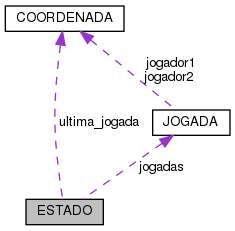
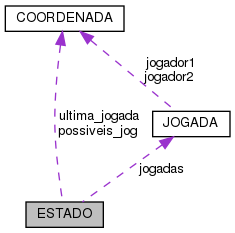
Documentação XML

diff --git a/html/camadaDeDados_8h_source.html b/html/camadaDeDados_8h_source.html
@@ -62,9 +62,9 @@ $(function() {
 <div class="title">camadaDeDados.h</div>  </div>
 </div><!--header-->
 <div class="contents">
-<div class="fragment"><div class="line"><a name="l00001"></a><span class="lineno">    1</span>&#160;</div><div class="line"><a name="l00002"></a><span class="lineno">    2</span>&#160;<span class="preprocessor">#ifndef LI2_CAMADADEDADOS_H</span></div><div class="line"><a name="l00003"></a><span class="lineno">    3</span>&#160;<span class="preprocessor">#define LI2_CAMADADEDADOS_H</span></div><div class="line"><a name="l00004"></a><span class="lineno">    4</span>&#160;</div><div class="line"><a name="l00005"></a><span class="lineno">    5</span>&#160;<span class="comment">//Pq não é possivel alterar &#39;VAZIA&#39; para &#39;.&#39; direto no typedef?</span></div><div class="line"><a name="l00006"></a><span class="lineno">    6</span>&#160;<span class="keyword">typedef</span> <span class="keyword">enum</span> {UM=<span class="charliteral">&#39;1&#39;</span>,DOIS=<span class="charliteral">&#39;2&#39;</span>,VAZIA=<span class="charliteral">&#39;.&#39;</span>,PRETA=<span class="charliteral">&#39;#&#39;</span>,BRANCA=<span class="charliteral">&#39;*&#39;</span>} CASA;</div><div class="line"><a name="l00007"></a><span class="lineno">    7</span>&#160;</div><div class="line"><a name="l00008"></a><span class="lineno">    8</span>&#160;<span class="keyword">typedef</span> <span class="keyword">enum</span> {OK,COORDENADA_INVALIDA,JOGADA_INVALIDA,ERRO_LER_TAB,ERRO_ABRIR_FICHEIRO,} ERROS;</div><div class="line"><a name="l00009"></a><span class="lineno">    9</span>&#160;</div><div class="line"><a name="l00010"></a><span class="lineno">   10</span>&#160;<span class="comment">//COORDENADA há dois inteiros sendo eles para identificar as colunas=letras (A-H) e as linhas de (1-8) de baixo para cima.</span></div><div class="line"><a name="l00011"></a><span class="lineno"><a class="line" href="structCOORDENADA.html">   11</a></span>&#160;<span class="keyword">typedef</span> <span class="keyword">struct </span>{</div><div class="line"><a name="l00012"></a><span class="lineno">   12</span>&#160;    <span class="keywordtype">int</span> letra;</div><div class="line"><a name="l00013"></a><span class="lineno">   13</span>&#160;    <span class="keywordtype">int</span> linha;</div><div class="line"><a name="l00014"></a><span class="lineno">   14</span>&#160;} <a class="code" href="structCOORDENADA.html">COORDENADA</a>;</div><div class="line"><a name="l00015"></a><span class="lineno">   15</span>&#160;</div><div class="line"><a name="l00016"></a><span class="lineno">   16</span>&#160;<span class="comment">//Typedef no qual busca quais as coordenas que o jogador 1 ou jogador 2</span></div><div class="line"><a name="l00017"></a><span class="lineno"><a class="line" href="structJOGADA.html">   17</a></span>&#160;<span class="keyword">typedef</span> <span class="keyword">struct </span>{</div><div class="line"><a name="l00018"></a><span class="lineno">   18</span>&#160;    <a class="code" href="structCOORDENADA.html">COORDENADA</a> jogador1;</div><div class="line"><a name="l00019"></a><span class="lineno">   19</span>&#160;    <a class="code" href="structCOORDENADA.html">COORDENADA</a> jogador2;</div><div class="line"><a name="l00020"></a><span class="lineno">   20</span>&#160;} <a class="code" href="structJOGADA.html">JOGADA</a>;</div><div class="line"><a name="l00021"></a><span class="lineno">   21</span>&#160;</div><div class="line"><a name="l00022"></a><span class="lineno">   22</span>&#160;<span class="keyword">typedef</span> <a class="code" href="structJOGADA.html">JOGADA</a> JOGADAS[32];</div><div class="line"><a name="l00023"></a><span class="lineno">   23</span>&#160;<span class="comment">//Informações do estado tab(tabuleiro), numero de jogadas (começa no 0), jogador atual (começa no jogador 1)</span></div><div class="line"><a name="l00024"></a><span class="lineno"><a class="line" href="structESTADO.html">   24</a></span>&#160;<span class="keyword">typedef</span> <span class="keyword">struct </span>{</div><div class="line"><a name="l00025"></a><span class="lineno">   25</span>&#160;    CASA tab[8][8];</div><div class="line"><a name="l00026"></a><span class="lineno">   26</span>&#160;    JOGADAS jogadas;</div><div class="line"><a name="l00027"></a><span class="lineno">   27</span>&#160;    <span class="keywordtype">int</span> num_jogadas;</div><div class="line"><a name="l00028"></a><span class="lineno">   28</span>&#160;    <span class="keywordtype">int</span> jogador_atual;</div><div class="line"><a name="l00029"></a><span class="lineno">   29</span>&#160;    <a class="code" href="structCOORDENADA.html">COORDENADA</a> ultima_jogada;</div><div class="line"><a name="l00030"></a><span class="lineno">   30</span>&#160;} <a class="code" href="structESTADO.html">ESTADO</a>;</div><div class="line"><a name="l00031"></a><span class="lineno">   31</span>&#160;<span class="comment">//Funções</span></div><div class="line"><a name="l00032"></a><span class="lineno">   32</span>&#160;<span class="keywordtype">int</span> numeroJogadas (<a class="code" href="structESTADO.html">ESTADO</a> *e);</div><div class="line"><a name="l00033"></a><span class="lineno">   33</span>&#160;<span class="keywordtype">int</span> JogAtual (<a class="code" href="structESTADO.html">ESTADO</a> *e);</div><div class="line"><a name="l00034"></a><span class="lineno">   34</span>&#160;CASA estadoDaPeca (<a class="code" href="structESTADO.html">ESTADO</a> *e ,<a class="code" href="structCOORDENADA.html">COORDENADA</a> *x);</div><div class="line"><a name="l00035"></a><span class="lineno">   35</span>&#160;<a class="code" href="structESTADO.html">ESTADO</a> *inicializar_estado();</div><div class="line"><a name="l00036"></a><span class="lineno">   36</span>&#160;</div><div class="line"><a name="l00037"></a><span class="lineno">   37</span>&#160;<span class="preprocessor">#endif //LI2_CAMADADEDADOS_H</span></div><div class="ttc" id="structESTADO_html"><div class="ttname"><a href="structESTADO.html">ESTADO</a></div><div class="ttdef"><b>Definition:</b> camadaDeDados.h:24</div></div>
-<div class="ttc" id="structJOGADA_html"><div class="ttname"><a href="structJOGADA.html">JOGADA</a></div><div class="ttdef"><b>Definition:</b> camadaDeDados.h:17</div></div>
-<div class="ttc" id="structCOORDENADA_html"><div class="ttname"><a href="structCOORDENADA.html">COORDENADA</a></div><div class="ttdef"><b>Definition:</b> camadaDeDados.h:11</div></div>
+<div class="fragment"><div class="line"><a name="l00001"></a><span class="lineno">    1</span>&#160;<span class="preprocessor">#ifndef LI2_CAMADADEDADOS_H</span></div><div class="line"><a name="l00002"></a><span class="lineno">    2</span>&#160;<span class="preprocessor">#define LI2_CAMADADEDADOS_H</span></div><div class="line"><a name="l00003"></a><span class="lineno">    3</span>&#160;<span class="preprocessor">#include &quot;lista.h&quot;</span></div><div class="line"><a name="l00008"></a><span class="lineno">    8</span>&#160;<span class="keyword">typedef</span> <span class="keyword">enum</span> {UM=<span class="charliteral">&#39;1&#39;</span>,DOIS=<span class="charliteral">&#39;2&#39;</span>,VAZIA=<span class="charliteral">&#39;.&#39;</span>,PRETA=<span class="charliteral">&#39;#&#39;</span>,BRANCA=<span class="charliteral">&#39;*&#39;</span>} CASA;</div><div class="line"><a name="l00014"></a><span class="lineno"><a class="line" href="structCOORDENADA.html">   14</a></span>&#160;<span class="keyword">typedef</span> <span class="keyword">struct </span>{</div><div class="line"><a name="l00015"></a><span class="lineno">   15</span>&#160;    <span class="keywordtype">int</span> letra;</div><div class="line"><a name="l00016"></a><span class="lineno">   16</span>&#160;    <span class="keywordtype">int</span> linha;</div><div class="line"><a name="l00017"></a><span class="lineno">   17</span>&#160;    <span class="keywordtype">char</span> letrinha;</div><div class="line"><a name="l00018"></a><span class="lineno">   18</span>&#160;} <a class="code" href="structCOORDENADA.html">COORDENADA</a>;</div><div class="line"><a name="l00019"></a><span class="lineno">   19</span>&#160;</div><div class="line"><a name="l00024"></a><span class="lineno"><a class="line" href="structJOGADA.html">   24</a></span>&#160;<span class="keyword">typedef</span> <span class="keyword">struct </span>{</div><div class="line"><a name="l00025"></a><span class="lineno">   25</span>&#160;    <a class="code" href="structCOORDENADA.html">COORDENADA</a> jogador1;</div><div class="line"><a name="l00026"></a><span class="lineno">   26</span>&#160;    <a class="code" href="structCOORDENADA.html">COORDENADA</a> jogador2;</div><div class="line"><a name="l00027"></a><span class="lineno">   27</span>&#160;} <a class="code" href="structJOGADA.html">JOGADA</a>;</div><div class="line"><a name="l00028"></a><span class="lineno">   28</span>&#160;</div><div class="line"><a name="l00033"></a><span class="lineno">   33</span>&#160;<span class="keyword">typedef</span> <a class="code" href="structJOGADA.html">JOGADA</a> JOGADAS[32];</div><div class="line"><a name="l00038"></a><span class="lineno"><a class="line" href="structESTADO.html">   38</a></span>&#160;<span class="keyword">typedef</span> <span class="keyword">struct </span>{</div><div class="line"><a name="l00039"></a><span class="lineno">   39</span>&#160;    CASA tab[8][8];</div><div class="line"><a name="l00040"></a><span class="lineno">   40</span>&#160;    JOGADAS jogadas;</div><div class="line"><a name="l00041"></a><span class="lineno">   41</span>&#160;    <span class="keywordtype">int</span> num_jogadas;</div><div class="line"><a name="l00042"></a><span class="lineno">   42</span>&#160;    <span class="keywordtype">int</span> jogador_atual;</div><div class="line"><a name="l00043"></a><span class="lineno">   43</span>&#160;    <span class="keywordtype">int</span> count_jog;</div><div class="line"><a name="l00044"></a><span class="lineno">   44</span>&#160;    <span class="keywordtype">int</span> count_mov;</div><div class="line"><a name="l00045"></a><span class="lineno">   45</span>&#160;    <span class="keywordtype">int</span> count_movs;</div><div class="line"><a name="l00046"></a><span class="lineno">   46</span>&#160;    <span class="keywordtype">int</span> num;</div><div class="line"><a name="l00047"></a><span class="lineno">   47</span>&#160;    <span class="keywordtype">int</span> qntjogs;</div><div class="line"><a name="l00048"></a><span class="lineno">   48</span>&#160;    <a class="code" href="structCOORDENADA.html">COORDENADA</a> possiveis_jog[8];</div><div class="line"><a name="l00049"></a><span class="lineno">   49</span>&#160;    <a class="code" href="structCOORDENADA.html">COORDENADA</a> ultima_jogada;</div><div class="line"><a name="l00050"></a><span class="lineno">   50</span>&#160;    <span class="comment">//COORDENADA possivel_jogada;</span></div><div class="line"><a name="l00051"></a><span class="lineno">   51</span>&#160;} <a class="code" href="structESTADO.html">ESTADO</a>;</div><div class="line"><a name="l00052"></a><span class="lineno">   52</span>&#160;</div><div class="line"><a name="l00053"></a><span class="lineno">   53</span>&#160;<span class="comment">/*Funções feita no .c*/</span></div><div class="line"><a name="l00054"></a><span class="lineno">   54</span>&#160;<a class="code" href="structESTADO.html">ESTADO</a> *inicializar_estado();</div><div class="line"><a name="l00055"></a><span class="lineno">   55</span>&#160;<span class="keywordtype">void</span> tabuleiro_inicial(<a class="code" href="structESTADO.html">ESTADO</a> *e);</div><div class="line"><a name="l00056"></a><span class="lineno">   56</span>&#160;<span class="preprocessor">#endif //LI2_CAMADADEDADOS_H</span></div><div class="ttc" id="structESTADO_html"><div class="ttname"><a href="structESTADO.html">ESTADO</a></div><div class="ttdoc">Informações do estado tab(tabuleiro), numero de jogadas (começa no 0), jogador atual (começa no jogad...</div><div class="ttdef"><b>Definition:</b> camadaDeDados.h:38</div></div>
+<div class="ttc" id="structJOGADA_html"><div class="ttname"><a href="structJOGADA.html">JOGADA</a></div><div class="ttdoc">Typedef no qual busca quais as coordenas que o jogador 1 ou jogador 2. </div><div class="ttdef"><b>Definition:</b> camadaDeDados.h:24</div></div>
+<div class="ttc" id="structCOORDENADA_html"><div class="ttname"><a href="structCOORDENADA.html">COORDENADA</a></div><div class="ttdoc">COORDENADA há dois inteiros sendo eles para identificar as colunas=letras (A-H),linhas de (1-8) e o l...</div><div class="ttdef"><b>Definition:</b> camadaDeDados.h:14</div></div>
 </div><!-- fragment --></div><!-- contents -->
 <!-- start footer part -->
 <hr class="footer"/><address class="footer"><small>

diff --git a/html/logica_8h_source.html b/html/logica_8h_source.html
@@ -62,8 +62,9 @@ $(function() {
 <div class="title">logica.h</div>  </div>
 </div><!--header-->
 <div class="contents">
-<div class="fragment"><div class="line"><a name="l00001"></a><span class="lineno">    1</span>&#160;<span class="preprocessor">#ifndef LI2_LOGICA_H</span></div><div class="line"><a name="l00002"></a><span class="lineno">    2</span>&#160;<span class="preprocessor">#define LI2_LOGICA_H</span></div><div class="line"><a name="l00003"></a><span class="lineno">    3</span>&#160;<span class="keywordtype">int</span> jogar(<a class="code" href="structESTADO.html">ESTADO</a> *e, <a class="code" href="structCOORDENADA.html">COORDENADA</a> c);</div><div class="line"><a name="l00004"></a><span class="lineno">    4</span>&#160;<span class="keywordtype">int</span> casa_viz(<a class="code" href="structCOORDENADA.html">COORDENADA</a> cAntes, <a class="code" href="structCOORDENADA.html">COORDENADA</a> cJog);</div><div class="line"><a name="l00005"></a><span class="lineno">    5</span>&#160;<span class="keywordtype">int</span> casa_livre (<a class="code" href="structESTADO.html">ESTADO</a> *e, <a class="code" href="structCOORDENADA.html">COORDENADA</a> c);</div><div class="line"><a name="l00006"></a><span class="lineno">    6</span>&#160;<span class="keywordtype">int</span> possiveis_jogadas(<a class="code" href="structESTADO.html">ESTADO</a> *e);</div><div class="line"><a name="l00007"></a><span class="lineno">    7</span>&#160;</div><div class="line"><a name="l00008"></a><span class="lineno">    8</span>&#160;</div><div class="line"><a name="l00009"></a><span class="lineno">    9</span>&#160;<span class="preprocessor">#endif //LI2_LOGICA_H</span></div><div class="ttc" id="structESTADO_html"><div class="ttname"><a href="structESTADO.html">ESTADO</a></div><div class="ttdef"><b>Definition:</b> camadaDeDados.h:24</div></div>
-<div class="ttc" id="structCOORDENADA_html"><div class="ttname"><a href="structCOORDENADA.html">COORDENADA</a></div><div class="ttdef"><b>Definition:</b> camadaDeDados.h:11</div></div>
+<div class="fragment"><div class="line"><a name="l00001"></a><span class="lineno">    1</span>&#160;<span class="preprocessor">#ifndef LI2_LOGICA_H</span></div><div class="line"><a name="l00002"></a><span class="lineno">    2</span>&#160;<span class="preprocessor">#define LI2_LOGICA_H</span></div><div class="line"><a name="l00003"></a><span class="lineno">    3</span>&#160;<span class="preprocessor">#include &quot;lista.h&quot;</span></div><div class="line"><a name="l00004"></a><span class="lineno">    4</span>&#160;<span class="keywordtype">void</span> movs(<a class="code" href="structESTADO.html">ESTADO</a> *e, <a class="code" href="structCOORDENADA.html">COORDENADA</a> c);</div><div class="line"><a name="l00005"></a><span class="lineno">    5</span>&#160;<span class="keywordtype">void</span> show_tab(FILE *f, <a class="code" href="structESTADO.html">ESTADO</a> *e);</div><div class="line"><a name="l00006"></a><span class="lineno">    6</span>&#160;<span class="keywordtype">void</span> prompt(<a class="code" href="structESTADO.html">ESTADO</a> *e);</div><div class="line"><a name="l00007"></a><span class="lineno">    7</span>&#160;<span class="keywordtype">void</span> jogar(<a class="code" href="structESTADO.html">ESTADO</a> *e, <a class="code" href="structCOORDENADA.html">COORDENADA</a> c);</div><div class="line"><a name="l00008"></a><span class="lineno">    8</span>&#160;<span class="keywordtype">void</span> parabens(<span class="keywordtype">int</span> jogador);</div><div class="line"><a name="l00009"></a><span class="lineno">    9</span>&#160;<span class="keywordtype">void</span> aux_mov(<a class="code" href="structESTADO.html">ESTADO</a> *e);</div><div class="line"><a name="l00010"></a><span class="lineno">   10</span>&#160;<span class="keywordtype">void</span> aux_movf(<a class="code" href="structESTADO.html">ESTADO</a> *e,FILE *f);</div><div class="line"><a name="l00011"></a><span class="lineno">   11</span>&#160;<span class="keywordtype">void</span> posf(<a class="code" href="structESTADO.html">ESTADO</a> *e, <span class="keywordtype">int</span> x);</div><div class="line"><a name="l00012"></a><span class="lineno">   12</span>&#160;<span class="keywordtype">void</span> troca_jog(<a class="code" href="structESTADO.html">ESTADO</a> *e);</div><div class="line"><a name="l00013"></a><span class="lineno">   13</span>&#160;<span class="keywordtype">void</span> iniciar_estado(<a class="code" href="structESTADO.html">ESTADO</a> *e);</div><div class="line"><a name="l00014"></a><span class="lineno">   14</span>&#160;<span class="keywordtype">void</span> mudar_estado(<a class="code" href="structESTADO.html">ESTADO</a> *e);</div><div class="line"><a name="l00015"></a><span class="lineno">   15</span>&#160;<span class="keywordtype">void</span> insere_lista(<a class="code" href="structlista.html">LISTA</a> *a,<a class="code" href="structESTADO.html">ESTADO</a> *e);</div><div class="line"><a name="l00016"></a><span class="lineno">   16</span>&#160;<span class="keywordtype">void</span> jog01(<a class="code" href="structESTADO.html">ESTADO</a> *e, <a class="code" href="structlista.html">LISTA</a> l);</div><div class="line"><a name="l00017"></a><span class="lineno">   17</span>&#160;<span class="keywordtype">void</span> jog02(<a class="code" href="structESTADO.html">ESTADO</a> *e, <a class="code" href="structlista.html">LISTA</a> *l);</div><div class="line"><a name="l00018"></a><span class="lineno">   18</span>&#160;<span class="keywordtype">int</span> casa_viz(<a class="code" href="structCOORDENADA.html">COORDENADA</a> cAntes, <a class="code" href="structCOORDENADA.html">COORDENADA</a> cJog);</div><div class="line"><a name="l00019"></a><span class="lineno">   19</span>&#160;<span class="keywordtype">int</span> casa_livre (<a class="code" href="structESTADO.html">ESTADO</a> *e, <a class="code" href="structCOORDENADA.html">COORDENADA</a> c);</div><div class="line"><a name="l00020"></a><span class="lineno">   20</span>&#160;<span class="keywordtype">int</span> possiveis_jogadas(<a class="code" href="structESTADO.html">ESTADO</a> *e,<a class="code" href="structlista.html">LISTA</a> *d);</div><div class="line"><a name="l00021"></a><span class="lineno">   21</span>&#160;<span class="keywordtype">int</span> calcula_dist(<a class="code" href="structCOORDENADA.html">COORDENADA</a> c, <a class="code" href="structESTADO.html">ESTADO</a>* e);</div><div class="line"><a name="l00022"></a><span class="lineno">   22</span>&#160;<span class="keywordtype">int</span> verifica_jog(<a class="code" href="structESTADO.html">ESTADO</a> e, <a class="code" href="structCOORDENADA.html">COORDENADA</a> c);</div><div class="line"><a name="l00023"></a><span class="lineno">   23</span>&#160;<a class="code" href="structCOORDENADA.html">COORDENADA</a> area_par(<a class="code" href="structESTADO.html">ESTADO</a> *e, <a class="code" href="structlista.html">LISTA</a> *l);</div><div class="line"><a name="l00024"></a><span class="lineno">   24</span>&#160;<a class="code" href="structCOORDENADA.html">COORDENADA</a> melhor_coord01(<a class="code" href="structESTADO.html">ESTADO</a> *e, <a class="code" href="structlista.html">LISTA</a> l);</div><div class="line"><a name="l00025"></a><span class="lineno">   25</span>&#160;<a class="code" href="structCOORDENADA.html">COORDENADA</a> melhor_coord02(<a class="code" href="structESTADO.html">ESTADO</a> e, <a class="code" href="structlista.html">LISTA</a> l);</div><div class="line"><a name="l00026"></a><span class="lineno">   26</span>&#160;<span class="preprocessor">#endif //LI2_LOGICA_H</span></div><div class="ttc" id="structESTADO_html"><div class="ttname"><a href="structESTADO.html">ESTADO</a></div><div class="ttdoc">Informações do estado tab(tabuleiro), numero de jogadas (começa no 0), jogador atual (começa no jogad...</div><div class="ttdef"><b>Definition:</b> camadaDeDados.h:38</div></div>
+<div class="ttc" id="structlista_html"><div class="ttname"><a href="structlista.html">lista</a></div><div class="ttdoc">Struct de lista ligada generalizada, ou seja, com void. </div><div class="ttdef"><b>Definition:</b> lista.h:7</div></div>
+<div class="ttc" id="structCOORDENADA_html"><div class="ttname"><a href="structCOORDENADA.html">COORDENADA</a></div><div class="ttdoc">COORDENADA há dois inteiros sendo eles para identificar as colunas=letras (A-H),linhas de (1-8) e o l...</div><div class="ttdef"><b>Definition:</b> camadaDeDados.h:14</div></div>
 </div><!-- fragment --></div><!-- contents -->
 <!-- start footer part -->
 <hr class="footer"/><address class="footer"><small>

diff --git a/html/structESTADO.html b/html/structESTADO.html
@@ -65,13 +65,18 @@ $(function() {
 <div class="title">ESTADO Struct Reference</div>  </div>
 </div><!--header-->
 <div class="contents">
+
+<p>Informações do estado tab(tabuleiro), numero de jogadas (começa no 0), jogador atual (começa no jogador 1)  
+ <a href="structESTADO.html#details">More...</a></p>
+
+<p><code>#include &lt;<a class="el" href="camadaDeDados_8h_source.html">camadaDeDados.h</a>&gt;</code></p>
 <div class="dynheader">
 Collaboration diagram for ESTADO:</div>
 <div class="dyncontent">
 <div class="center"><img src="structESTADO__coll__graph.png" border="0" usemap="#ESTADO_coll__map" alt="Collaboration graph"/></div>
 <map name="ESTADO_coll__map" id="ESTADO_coll__map">
-<area shape="rect" id="node2" href="structCOORDENADA.html" title="COORDENADA" alt="" coords="5,5,124,32"/>
-<area shape="rect" id="node3" href="structJOGADA.html" title="JOGADA" alt="" coords="153,109,230,136"/>
+<area shape="rect" id="node2" href="structCOORDENADA.html" title="COORDENADA há dois inteiros sendo eles para identificar as colunas=letras (A&#45;H),linhas de (1&#45;8) e o l..." alt="" coords="5,5,124,32"/>
+<area shape="rect" id="node3" href="structJOGADA.html" title="Typedef no qual busca quais as coordenas que o jogador 1 ou jogador 2. " alt="" coords="153,111,230,137"/>
 </map>
 <center><span class="legend">[<a href="graph_legend.html">legend</a>]</span></center></div>
 <table class="memberdecls">
@@ -89,11 +94,31 @@ int&#160;</td><td class="memItemRight" valign="bottom"><b>num_jogadas</b></td></
 <tr class="memitem:a5dd28e2e68b7aef2b6b7ea88e02eff58"><td class="memItemLeft" align="right" valign="top"><a id="a5dd28e2e68b7aef2b6b7ea88e02eff58"></a>
 int&#160;</td><td class="memItemRight" valign="bottom"><b>jogador_atual</b></td></tr>
 <tr class="separator:a5dd28e2e68b7aef2b6b7ea88e02eff58"><td class="memSeparator" colspan="2">&#160;</td></tr>
+<tr class="memitem:a5632721fdfcc6c98f084c91aef5b6e25"><td class="memItemLeft" align="right" valign="top"><a id="a5632721fdfcc6c98f084c91aef5b6e25"></a>
+int&#160;</td><td class="memItemRight" valign="bottom"><b>count_jog</b></td></tr>
+<tr class="separator:a5632721fdfcc6c98f084c91aef5b6e25"><td class="memSeparator" colspan="2">&#160;</td></tr>
+<tr class="memitem:a36e8d21ac156e82ce914ccdafc6796ea"><td class="memItemLeft" align="right" valign="top"><a id="a36e8d21ac156e82ce914ccdafc6796ea"></a>
+int&#160;</td><td class="memItemRight" valign="bottom"><b>count_mov</b></td></tr>
+<tr class="separator:a36e8d21ac156e82ce914ccdafc6796ea"><td class="memSeparator" colspan="2">&#160;</td></tr>
+<tr class="memitem:a49b04d6940f820509146c9162ac10542"><td class="memItemLeft" align="right" valign="top"><a id="a49b04d6940f820509146c9162ac10542"></a>
+int&#160;</td><td class="memItemRight" valign="bottom"><b>count_movs</b></td></tr>
+<tr class="separator:a49b04d6940f820509146c9162ac10542"><td class="memSeparator" colspan="2">&#160;</td></tr>
+<tr class="memitem:a248a8554633b7e8e40142e5b8c4e6960"><td class="memItemLeft" align="right" valign="top"><a id="a248a8554633b7e8e40142e5b8c4e6960"></a>
+int&#160;</td><td class="memItemRight" valign="bottom"><b>num</b></td></tr>
+<tr class="separator:a248a8554633b7e8e40142e5b8c4e6960"><td class="memSeparator" colspan="2">&#160;</td></tr>
+<tr class="memitem:ae0aaae1dc17799598305cd40a3ca2ba8"><td class="memItemLeft" align="right" valign="top"><a id="ae0aaae1dc17799598305cd40a3ca2ba8"></a>
+int&#160;</td><td class="memItemRight" valign="bottom"><b>qntjogs</b></td></tr>
+<tr class="separator:ae0aaae1dc17799598305cd40a3ca2ba8"><td class="memSeparator" colspan="2">&#160;</td></tr>
+<tr class="memitem:ab9b11998a54bde459f72cbbc32e79b0b"><td class="memItemLeft" align="right" valign="top"><a id="ab9b11998a54bde459f72cbbc32e79b0b"></a>
+<a class="el" href="structCOORDENADA.html">COORDENADA</a>&#160;</td><td class="memItemRight" valign="bottom"><b>possiveis_jog</b> [8]</td></tr>
+<tr class="separator:ab9b11998a54bde459f72cbbc32e79b0b"><td class="memSeparator" colspan="2">&#160;</td></tr>
 <tr class="memitem:a4896a5c5c1f40b43fb795623327e3f47"><td class="memItemLeft" align="right" valign="top"><a id="a4896a5c5c1f40b43fb795623327e3f47"></a>
 <a class="el" href="structCOORDENADA.html">COORDENADA</a>&#160;</td><td class="memItemRight" valign="bottom"><b>ultima_jogada</b></td></tr>
 <tr class="separator:a4896a5c5c1f40b43fb795623327e3f47"><td class="memSeparator" colspan="2">&#160;</td></tr>
 </table>
-<hr/>The documentation for this struct was generated from the following file:<ul>
+<a name="details" id="details"></a><h2 class="groupheader">Detailed Description</h2>
+<div class="textblock"><p>Informações do estado tab(tabuleiro), numero de jogadas (começa no 0), jogador atual (começa no jogador 1) </p>
+</div><hr/>The documentation for this struct was generated from the following file:<ul>
 <li><a class="el" href="camadaDeDados_8h_source.html">camadaDeDados.h</a></li>
 </ul>
 </div><!-- contents -->

diff --git a/html/structESTADO-members.html b/html/structESTADO-members.html
@@ -65,9 +65,15 @@ $(function() {
 
 <p>This is the complete list of members for <a class="el" href="structESTADO.html">ESTADO</a>, including all inherited members.</p>
 <table class="directory">
-  <tr bgcolor="#f0f0f0" class="even"><td class="entry"><b>jogadas</b> (defined in <a class="el" href="structESTADO.html">ESTADO</a>)</td><td class="entry"><a class="el" href="structESTADO.html">ESTADO</a></td><td class="entry"></td></tr>
-  <tr bgcolor="#f0f0f0"><td class="entry"><b>jogador_atual</b> (defined in <a class="el" href="structESTADO.html">ESTADO</a>)</td><td class="entry"><a class="el" href="structESTADO.html">ESTADO</a></td><td class="entry"></td></tr>
+  <tr bgcolor="#f0f0f0" class="even"><td class="entry"><b>count_jog</b> (defined in <a class="el" href="structESTADO.html">ESTADO</a>)</td><td class="entry"><a class="el" href="structESTADO.html">ESTADO</a></td><td class="entry"></td></tr>
+  <tr bgcolor="#f0f0f0"><td class="entry"><b>count_mov</b> (defined in <a class="el" href="structESTADO.html">ESTADO</a>)</td><td class="entry"><a class="el" href="structESTADO.html">ESTADO</a></td><td class="entry"></td></tr>
+  <tr bgcolor="#f0f0f0" class="even"><td class="entry"><b>count_movs</b> (defined in <a class="el" href="structESTADO.html">ESTADO</a>)</td><td class="entry"><a class="el" href="structESTADO.html">ESTADO</a></td><td class="entry"></td></tr>
+  <tr bgcolor="#f0f0f0"><td class="entry"><b>jogadas</b> (defined in <a class="el" href="structESTADO.html">ESTADO</a>)</td><td class="entry"><a class="el" href="structESTADO.html">ESTADO</a></td><td class="entry"></td></tr>
+  <tr bgcolor="#f0f0f0" class="even"><td class="entry"><b>jogador_atual</b> (defined in <a class="el" href="structESTADO.html">ESTADO</a>)</td><td class="entry"><a class="el" href="structESTADO.html">ESTADO</a></td><td class="entry"></td></tr>
+  <tr bgcolor="#f0f0f0"><td class="entry"><b>num</b> (defined in <a class="el" href="structESTADO.html">ESTADO</a>)</td><td class="entry"><a class="el" href="structESTADO.html">ESTADO</a></td><td class="entry"></td></tr>
   <tr bgcolor="#f0f0f0" class="even"><td class="entry"><b>num_jogadas</b> (defined in <a class="el" href="structESTADO.html">ESTADO</a>)</td><td class="entry"><a class="el" href="structESTADO.html">ESTADO</a></td><td class="entry"></td></tr>
+  <tr bgcolor="#f0f0f0"><td class="entry"><b>possiveis_jog</b> (defined in <a class="el" href="structESTADO.html">ESTADO</a>)</td><td class="entry"><a class="el" href="structESTADO.html">ESTADO</a></td><td class="entry"></td></tr>
+  <tr bgcolor="#f0f0f0" class="even"><td class="entry"><b>qntjogs</b> (defined in <a class="el" href="structESTADO.html">ESTADO</a>)</td><td class="entry"><a class="el" href="structESTADO.html">ESTADO</a></td><td class="entry"></td></tr>
   <tr bgcolor="#f0f0f0"><td class="entry"><b>tab</b> (defined in <a class="el" href="structESTADO.html">ESTADO</a>)</td><td class="entry"><a class="el" href="structESTADO.html">ESTADO</a></td><td class="entry"></td></tr>
   <tr bgcolor="#f0f0f0" class="even"><td class="entry"><b>ultima_jogada</b> (defined in <a class="el" href="structESTADO.html">ESTADO</a>)</td><td class="entry"><a class="el" href="structESTADO.html">ESTADO</a></td><td class="entry"></td></tr>
 </table></div><!-- contents -->

diff --git a/html/interface_8h_source.html b/html/interface_8h_source.html
@@ -62,7 +62,7 @@ $(function() {
 <div class="title">interface.h</div>  </div>
 </div><!--header-->
 <div class="contents">
-<div class="fragment"><div class="line"><a name="l00001"></a><span class="lineno">    1</span>&#160;</div><div class="line"><a name="l00002"></a><span class="lineno">    2</span>&#160;<span class="preprocessor">#ifndef LI2_INTERFACE_H</span></div><div class="line"><a name="l00003"></a><span class="lineno">    3</span>&#160;<span class="preprocessor">#define LI2_INTERFACE_H</span></div><div class="line"><a name="l00004"></a><span class="lineno">    4</span>&#160;<span class="keywordtype">void</span> mostrar_tabuleiro(<a class="code" href="structESTADO.html">ESTADO</a> *e,FILE *f);</div><div class="line"><a name="l00005"></a><span class="lineno">    5</span>&#160;<span class="keywordtype">int</span> interpretador(<a class="code" href="structESTADO.html">ESTADO</a> *e);</div><div class="line"><a name="l00006"></a><span class="lineno">    6</span>&#160;<span class="preprocessor">#endif //LI2_INTERFACE_H</span></div><div class="ttc" id="structESTADO_html"><div class="ttname"><a href="structESTADO.html">ESTADO</a></div><div class="ttdef"><b>Definition:</b> camadaDeDados.h:24</div></div>
+<div class="fragment"><div class="line"><a name="l00001"></a><span class="lineno">    1</span>&#160;<span class="preprocessor">#ifndef LI2_INTERFACE_H</span></div><div class="line"><a name="l00002"></a><span class="lineno">    2</span>&#160;<span class="preprocessor">#define LI2_INTERFACE_H</span></div><div class="line"><a name="l00003"></a><span class="lineno">    3</span>&#160;<span class="preprocessor">#include &quot;lista.h&quot;</span></div><div class="line"><a name="l00004"></a><span class="lineno">    4</span>&#160;<span class="keywordtype">void</span> mostrar_tabuleiro(<a class="code" href="structESTADO.html">ESTADO</a> *e);</div><div class="line"><a name="l00005"></a><span class="lineno">    5</span>&#160;<span class="keywordtype">int</span> interpretador(<a class="code" href="structESTADO.html">ESTADO</a> *e);</div><div class="line"><a name="l00006"></a><span class="lineno">    6</span>&#160;<span class="preprocessor">#endif //LI2_INTERFACE_H</span></div><div class="ttc" id="structESTADO_html"><div class="ttname"><a href="structESTADO.html">ESTADO</a></div><div class="ttdoc">Informações do estado tab(tabuleiro), numero de jogadas (começa no 0), jogador atual (começa no jogad...</div><div class="ttdef"><b>Definition:</b> camadaDeDados.h:38</div></div>
 </div><!-- fragment --></div><!-- contents -->
 <!-- start footer part -->
 <hr class="footer"/><address class="footer"><small>

diff --git a/html/classes.html b/html/classes.html
@@ -62,17 +62,18 @@ $(function() {
 <div class="title">Class Index</div>  </div>
 </div><!--header-->
 <div class="contents">
-<div class="qindex"><a class="qindex" href="#letter_c">c</a>&#160;|&#160;<a class="qindex" href="#letter_e">e</a>&#160;|&#160;<a class="qindex" href="#letter_j">j</a></div>
+<div class="qindex"><a class="qindex" href="#letter_c">c</a>&#160;|&#160;<a class="qindex" href="#letter_e">e</a>&#160;|&#160;<a class="qindex" href="#letter_j">j</a>&#160;|&#160;<a class="qindex" href="#letter_l">l</a></div>
 <table class="classindex">
 <tr><td rowspan="2" valign="bottom"><a name="letter_c"></a><table border="0" cellspacing="0" cellpadding="0"><tr><td><div class="ah">&#160;&#160;c&#160;&#160;</div></td></tr></table>
 </td><td rowspan="2" valign="bottom"><a name="letter_e"></a><table border="0" cellspacing="0" cellpadding="0"><tr><td><div class="ah">&#160;&#160;e&#160;&#160;</div></td></tr></table>
 </td><td rowspan="2" valign="bottom"><a name="letter_j"></a><table border="0" cellspacing="0" cellpadding="0"><tr><td><div class="ah">&#160;&#160;j&#160;&#160;</div></td></tr></table>
+</td><td rowspan="2" valign="bottom"><a name="letter_l"></a><table border="0" cellspacing="0" cellpadding="0"><tr><td><div class="ah">&#160;&#160;l&#160;&#160;</div></td></tr></table>
 </td><td></td></tr>
 <tr><td></td></tr>
-<tr><td valign="top"><a class="el" href="structCOORDENADA.html">COORDENADA</a>&#160;&#160;&#160;</td><td valign="top"><a class="el" href="structESTADO.html">ESTADO</a>&#160;&#160;&#160;</td><td valign="top"><a class="el" href="structJOGADA.html">JOGADA</a>&#160;&#160;&#160;</td><td></td></tr>
-<tr><td></td><td></td><td></td><td></td></tr>
+<tr><td valign="top"><a class="el" href="structCOORDENADA.html">COORDENADA</a>&#160;&#160;&#160;</td><td valign="top"><a class="el" href="structESTADO.html">ESTADO</a>&#160;&#160;&#160;</td><td valign="top"><a class="el" href="structJOGADA.html">JOGADA</a>&#160;&#160;&#160;</td><td valign="top"><a class="el" href="structlista.html">lista</a>&#160;&#160;&#160;</td><td></td></tr>
+<tr><td></td><td></td><td></td><td></td><td></td></tr>
 </table>
-<div class="qindex"><a class="qindex" href="#letter_c">c</a>&#160;|&#160;<a class="qindex" href="#letter_e">e</a>&#160;|&#160;<a class="qindex" href="#letter_j">j</a></div>
+<div class="qindex"><a class="qindex" href="#letter_c">c</a>&#160;|&#160;<a class="qindex" href="#letter_e">e</a>&#160;|&#160;<a class="qindex" href="#letter_j">j</a>&#160;|&#160;<a class="qindex" href="#letter_l">l</a></div>
 </div><!-- contents -->
 <!-- start footer part -->
 <hr class="footer"/><address class="footer"><small>

diff --git a/html/annotated.html b/html/annotated.html
@@ -64,9 +64,10 @@ $(function() {
 <div class="contents">
 <div class="textblock">Here are the classes, structs, unions and interfaces with brief descriptions:</div><div class="directory">
 <table class="directory">
-<tr id="row_0_" class="even"><td class="entry"><span style="width:16px;display:inline-block;">&#160;</span><span class="icona"><span class="icon">C</span></span><a class="el" href="structCOORDENADA.html" target="_self">COORDENADA</a></td><td class="desc"></td></tr>
-<tr id="row_1_"><td class="entry"><span style="width:16px;display:inline-block;">&#160;</span><span class="icona"><span class="icon">C</span></span><a class="el" href="structESTADO.html" target="_self">ESTADO</a></td><td class="desc"></td></tr>
-<tr id="row_2_" class="even"><td class="entry"><span style="width:16px;display:inline-block;">&#160;</span><span class="icona"><span class="icon">C</span></span><a class="el" href="structJOGADA.html" target="_self">JOGADA</a></td><td class="desc"></td></tr>
+<tr id="row_0_" class="even"><td class="entry"><span style="width:16px;display:inline-block;">&#160;</span><span class="icona"><span class="icon">C</span></span><a class="el" href="structCOORDENADA.html" target="_self">COORDENADA</a></td><td class="desc"><a class="el" href="structCOORDENADA.html" title="COORDENADA há dois inteiros sendo eles para identificar as colunas=letras (A-H),linhas de (1-8) e o l...">COORDENADA</a> há dois inteiros sendo eles para identificar as colunas=letras (A-H),linhas de (1-8) e o letrinh é um char para utilizamos no movs e prompt </td></tr>
+<tr id="row_1_"><td class="entry"><span style="width:16px;display:inline-block;">&#160;</span><span class="icona"><span class="icon">C</span></span><a class="el" href="structESTADO.html" target="_self">ESTADO</a></td><td class="desc">Informações do estado tab(tabuleiro), numero de jogadas (começa no 0), jogador atual (começa no jogador 1) </td></tr>
+<tr id="row_2_" class="even"><td class="entry"><span style="width:16px;display:inline-block;">&#160;</span><span class="icona"><span class="icon">C</span></span><a class="el" href="structJOGADA.html" target="_self">JOGADA</a></td><td class="desc">Typedef no qual busca quais as coordenas que o jogador 1 ou jogador 2 </td></tr>
+<tr id="row_3_"><td class="entry"><span style="width:16px;display:inline-block;">&#160;</span><span class="icona"><span class="icon">C</span></span><a class="el" href="structlista.html" target="_self">lista</a></td><td class="desc">Struct de lista ligada generalizada, ou seja, com void </td></tr>
 </table>
 </div><!-- directory -->
 </div><!-- contents -->

diff --git a/html/structCOORDENADA.html b/html/structCOORDENADA.html
@@ -65,6 +65,11 @@ $(function() {
 <div class="title">COORDENADA Struct Reference</div>  </div>
 </div><!--header-->
 <div class="contents">
+
+<p><a class="el" href="structCOORDENADA.html" title="COORDENADA há dois inteiros sendo eles para identificar as colunas=letras (A-H),linhas de (1-8) e o l...">COORDENADA</a> há dois inteiros sendo eles para identificar as colunas=letras (A-H),linhas de (1-8) e o letrinh é um char para utilizamos no movs e prompt .  
+ <a href="structCOORDENADA.html#details">More...</a></p>
+
+<p><code>#include &lt;<a class="el" href="camadaDeDados_8h_source.html">camadaDeDados.h</a>&gt;</code></p>
 <table class="memberdecls">
 <tr class="heading"><td colspan="2"><h2 class="groupheader"><a name="pub-attribs"></a>
 Public Attributes</h2></td></tr>
@@ -74,8 +79,13 @@ int&#160;</td><td class="memItemRight" valign="bottom"><b>letra</b></td></tr>
 <tr class="memitem:aefe14bcc5a066ac3b21500cc3d28c06f"><td class="memItemLeft" align="right" valign="top"><a id="aefe14bcc5a066ac3b21500cc3d28c06f"></a>
 int&#160;</td><td class="memItemRight" valign="bottom"><b>linha</b></td></tr>
 <tr class="separator:aefe14bcc5a066ac3b21500cc3d28c06f"><td class="memSeparator" colspan="2">&#160;</td></tr>
+<tr class="memitem:ac00ff2e615b371a3d87fbb05449cde99"><td class="memItemLeft" align="right" valign="top"><a id="ac00ff2e615b371a3d87fbb05449cde99"></a>
+char&#160;</td><td class="memItemRight" valign="bottom"><b>letrinha</b></td></tr>
+<tr class="separator:ac00ff2e615b371a3d87fbb05449cde99"><td class="memSeparator" colspan="2">&#160;</td></tr>
 </table>
-<hr/>The documentation for this struct was generated from the following file:<ul>
+<a name="details" id="details"></a><h2 class="groupheader">Detailed Description</h2>
+<div class="textblock"><p><a class="el" href="structCOORDENADA.html" title="COORDENADA há dois inteiros sendo eles para identificar as colunas=letras (A-H),linhas de (1-8) e o l...">COORDENADA</a> há dois inteiros sendo eles para identificar as colunas=letras (A-H),linhas de (1-8) e o letrinh é um char para utilizamos no movs e prompt . </p>
+</div><hr/>The documentation for this struct was generated from the following file:<ul>
 <li><a class="el" href="camadaDeDados_8h_source.html">camadaDeDados.h</a></li>
 </ul>
 </div><!-- contents -->

diff --git a/html/structJOGADA.html b/html/structJOGADA.html
@@ -65,12 +65,17 @@ $(function() {
 <div class="title">JOGADA Struct Reference</div>  </div>
 </div><!--header-->
 <div class="contents">
+
+<p>Typedef no qual busca quais as coordenas que o jogador 1 ou jogador 2.  
+ <a href="structJOGADA.html#details">More...</a></p>
+
+<p><code>#include &lt;<a class="el" href="camadaDeDados_8h_source.html">camadaDeDados.h</a>&gt;</code></p>
 <div class="dynheader">
 Collaboration diagram for JOGADA:</div>
 <div class="dyncontent">
 <div class="center"><img src="structJOGADA__coll__graph.png" border="0" usemap="#JOGADA_coll__map" alt="Collaboration graph"/></div>
 <map name="JOGADA_coll__map" id="JOGADA_coll__map">
-<area shape="rect" id="node2" href="structCOORDENADA.html" title="COORDENADA" alt="" coords="5,5,124,32"/>
+<area shape="rect" id="node2" href="structCOORDENADA.html" title="COORDENADA há dois inteiros sendo eles para identificar as colunas=letras (A&#45;H),linhas de (1&#45;8) e o l..." alt="" coords="5,5,124,32"/>
 </map>
 <center><span class="legend">[<a href="graph_legend.html">legend</a>]</span></center></div>
 <table class="memberdecls">
@@ -83,7 +88,9 @@ Public Attributes</h2></td></tr>
 <a class="el" href="structCOORDENADA.html">COORDENADA</a>&#160;</td><td class="memItemRight" valign="bottom"><b>jogador2</b></td></tr>
 <tr class="separator:ab46b16dfbdc7f2af9430c8dcdac0914b"><td class="memSeparator" colspan="2">&#160;</td></tr>
 </table>
-<hr/>The documentation for this struct was generated from the following file:<ul>
+<a name="details" id="details"></a><h2 class="groupheader">Detailed Description</h2>
+<div class="textblock"><p>Typedef no qual busca quais as coordenas que o jogador 1 ou jogador 2. </p>
+</div><hr/>The documentation for this struct was generated from the following file:<ul>
 <li><a class="el" href="camadaDeDados_8h_source.html">camadaDeDados.h</a></li>
 </ul>
 </div><!-- contents -->

diff --git a/html/structCOORDENADA-members.html b/html/structCOORDENADA-members.html
@@ -66,7 +66,8 @@ $(function() {
 <p>This is the complete list of members for <a class="el" href="structCOORDENADA.html">COORDENADA</a>, including all inherited members.</p>
 <table class="directory">
   <tr bgcolor="#f0f0f0" class="even"><td class="entry"><b>letra</b> (defined in <a class="el" href="structCOORDENADA.html">COORDENADA</a>)</td><td class="entry"><a class="el" href="structCOORDENADA.html">COORDENADA</a></td><td class="entry"></td></tr>
-  <tr bgcolor="#f0f0f0"><td class="entry"><b>linha</b> (defined in <a class="el" href="structCOORDENADA.html">COORDENADA</a>)</td><td class="entry"><a class="el" href="structCOORDENADA.html">COORDENADA</a></td><td class="entry"></td></tr>
+  <tr bgcolor="#f0f0f0"><td class="entry"><b>letrinha</b> (defined in <a class="el" href="structCOORDENADA.html">COORDENADA</a>)</td><td class="entry"><a class="el" href="structCOORDENADA.html">COORDENADA</a></td><td class="entry"></td></tr>
+  <tr bgcolor="#f0f0f0" class="even"><td class="entry"><b>linha</b> (defined in <a class="el" href="structCOORDENADA.html">COORDENADA</a>)</td><td class="entry"><a class="el" href="structCOORDENADA.html">COORDENADA</a></td><td class="entry"></td></tr>
 </table></div><!-- contents -->
 <!-- start footer part -->
 <hr class="footer"/><address class="footer"><small>

diff --git a/html/files.html b/html/files.html
@@ -66,7 +66,8 @@ $(function() {
 <table class="directory">
 <tr id="row_0_" class="even"><td class="entry"><span style="width:16px;display:inline-block;">&#160;</span><a href="camadaDeDados_8h_source.html"><span class="icondoc"></span></a><b>camadaDeDados.h</b></td><td class="desc"></td></tr>
 <tr id="row_1_"><td class="entry"><span style="width:16px;display:inline-block;">&#160;</span><a href="interface_8h_source.html"><span class="icondoc"></span></a><b>interface.h</b></td><td class="desc"></td></tr>
-<tr id="row_2_" class="even"><td class="entry"><span style="width:16px;display:inline-block;">&#160;</span><a href="logica_8h_source.html"><span class="icondoc"></span></a><b>logica.h</b></td><td class="desc"></td></tr>
+<tr id="row_2_" class="even"><td class="entry"><span style="width:16px;display:inline-block;">&#160;</span><a href="lista_8h_source.html"><span class="icondoc"></span></a><b>lista.h</b></td><td class="desc"></td></tr>
+<tr id="row_3_"><td class="entry"><span style="width:16px;display:inline-block;">&#160;</span><a href="logica_8h_source.html"><span class="icondoc"></span></a><b>logica.h</b></td><td class="desc"></td></tr>
 </table>
 </div><!-- directory -->
 </div><!-- contents -->

diff --git a/html/search/all_3.js b/html/search/all_3.js
@@ -1,4 +1,5 @@
 var searchData=
 [
+  ['lista',['lista',['../structlista.html',1,'']]],
   ['li2',['Li2',['../md_README.html',1,'']]]
 ];
